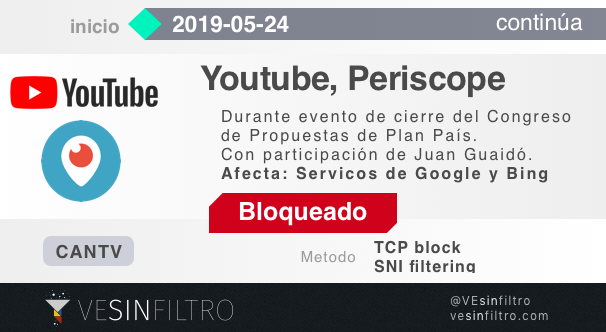
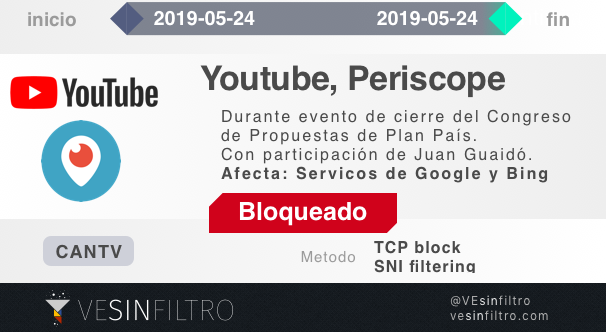
multuple small updates

Changed region(s): [[0.0297, 0.0, 1.0, 0.1205]]

diff --git a/lib/main.css b/lib/main.css
@@ -153,3 +153,15 @@ article.post-content p{
 	width:110px;
 	background:url(../res/logo-vi.png);
 }
+
+
+
+/* POST LOOP */
+
+article span.byline{
+	margin-left: 25px;
+	color: #777;
+	font-style: italic;
+	font-weight: lighter;
+
+}

diff --git a/noticias.html b/noticias.html
@@ -3,7 +3,9 @@ layout: page
 title: Noticias
 permalink: /
 redirect_from:
+  - /noticias/
   - /noticias
+  - /n
 ---
 
   {% for post in site.noticias reversed %}

diff --git a/_noticias/2019-05-24-alerta.md b/_noticias/2019-05-24-alerta.md
@@ -11,8 +11,6 @@ image: /res/post_img/alerta-2019-05-24.png
 
 Durante el evento de Cierre del Congreso Internacional de Propuestas de Plan País que cuenta con la presencia de Juan Guaidó, Youtube y Periscope fueron bloqueados por CANTV, el más importante proveedor de internet de Venezuela y empresa del estado.
 
-Este bloqueo <!-- comenzó a las  (Hora de Venezuela, VET)--> y continúa a la hora de publicción.
-
 Este evento presenta las propuestas de país que se han estado elaborando con distintos secotres y se desarrolla en la Universidad Católica Andrés Bello (UCAB) en Caracas.
 
 Venezuela sufre una [crisis política sobre quién debe ocupar legitimamente la presidencia](https://en.wikipedia.org/wiki/2019_Venezuelan_presidential_crisis): Nicolas Maduro (reelecto en un proceso electoral cuestionado) o Juan Guaidó (Presidente de la Asamblea Nacional y considerado Presidente Encargado por quienes desconocen la reelección de Maduro).
@@ -20,6 +18,9 @@ Venezuela sufre una [crisis política sobre quién debe ocupar legitimamente la 
 Desde Enero de 2019 se la crisis ha motivado una [fuerte escalada en la censura y control de internet en Venezuela mediante numerosos bloqueos nuevos](https://vesinfiltro.com/noticias/venezuela_bloquea_las_noticias-2019-05/). Esta censura incluye bloqueos indefinidos especialmente a medios y bloqueos tácticos hacia plataformas de streaming y de redes sociales. Los bloqueos tácticos con frecuencia son usados para silenciar la tranmisión en vivo de declaraciones y actos públicos de Juan Guaidó, se ha bloqueado Youtube en eventos similares con gremios.
 
 Este bloqueo afecta múltiples servicios de google incluyendo Google Drive, Google Calendar, Google Meet, Google Chat entre otros. Afecta también el sitio del buscador Microsoft Bing, estimamos que el bloqueo de Bing es accidental por la proximidad de los rangos de IP.
+
+El bloqueo a Youtube con múltiples efectos colateriales terminó a las 12:26:07 pm (VET). El bloqueo a Perisocpe culimó a las #keepItOn 12:18:56 (VET).
+
 
 ## Recomendaciones a usuarios de internet en Venezuela
 
@@ -34,7 +35,6 @@ siguientes herramientas ante la posibilidad de que alguna sea bloqueada.
 -   Tor Browser [https://torproject.org](https://torproject.org)
 
     ![](/res/img/tecnicas_evadir_bloqueos.png)
-
 
 
 (actualizando)

diff --git a/_noticias/2019-05-13-alerta.md b/_noticias/2019-05-13-alerta.md
@@ -17,7 +17,7 @@ Juan Guaidó dio su rueda de prensa a las 4:30pm (VET), una hora despúes del in
 
 Este bloqueo afecta múltiples servicios de google incluyendo Google Drive, Google Calendar, Google Meet, Google Chat entre otros. Afecta también el motor de búsqueda Microsoft Bing, calculamos que el bloqueo de Bing es accidental por la proximidad de los rangos de IP.
 
-Desde el inicio de 2019 se han registrados [numerosos bloqueos a la prensa y especialmente a plataformas de transmisión en vivo](http://127.0.0.1:4000/noticias/venezuela_bloquea_las_noticias-2019-05/) de video durante importantes declaraciones públicas.
+Desde el inicio de 2019 se han registrados [numerosos bloqueos a la prensa y especialmente a plataformas de transmisión en vivo](https://vesinfiltro.com/noticias/venezuela_bloquea_las_noticias-2019-05/) de video durante importantes declaraciones públicas.
 
 (actualizando)
 
